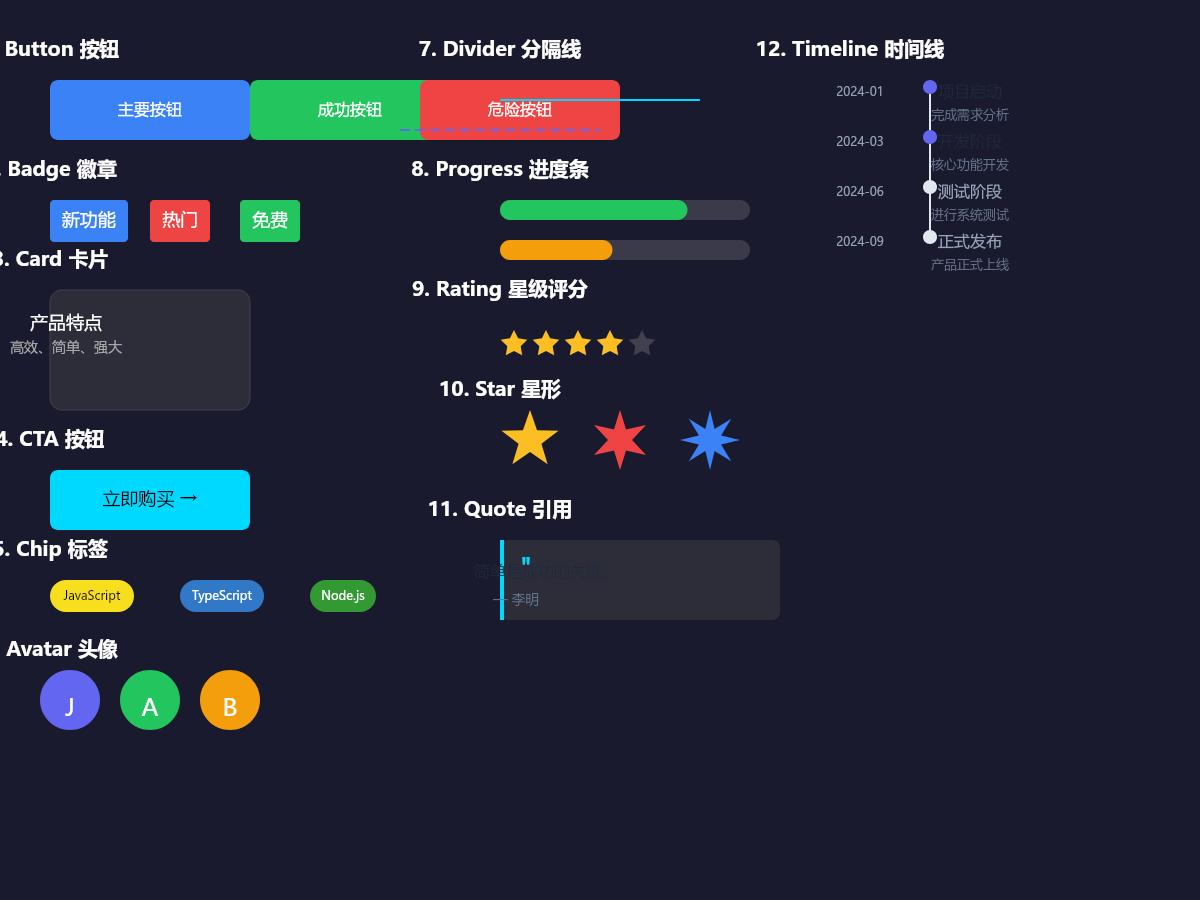
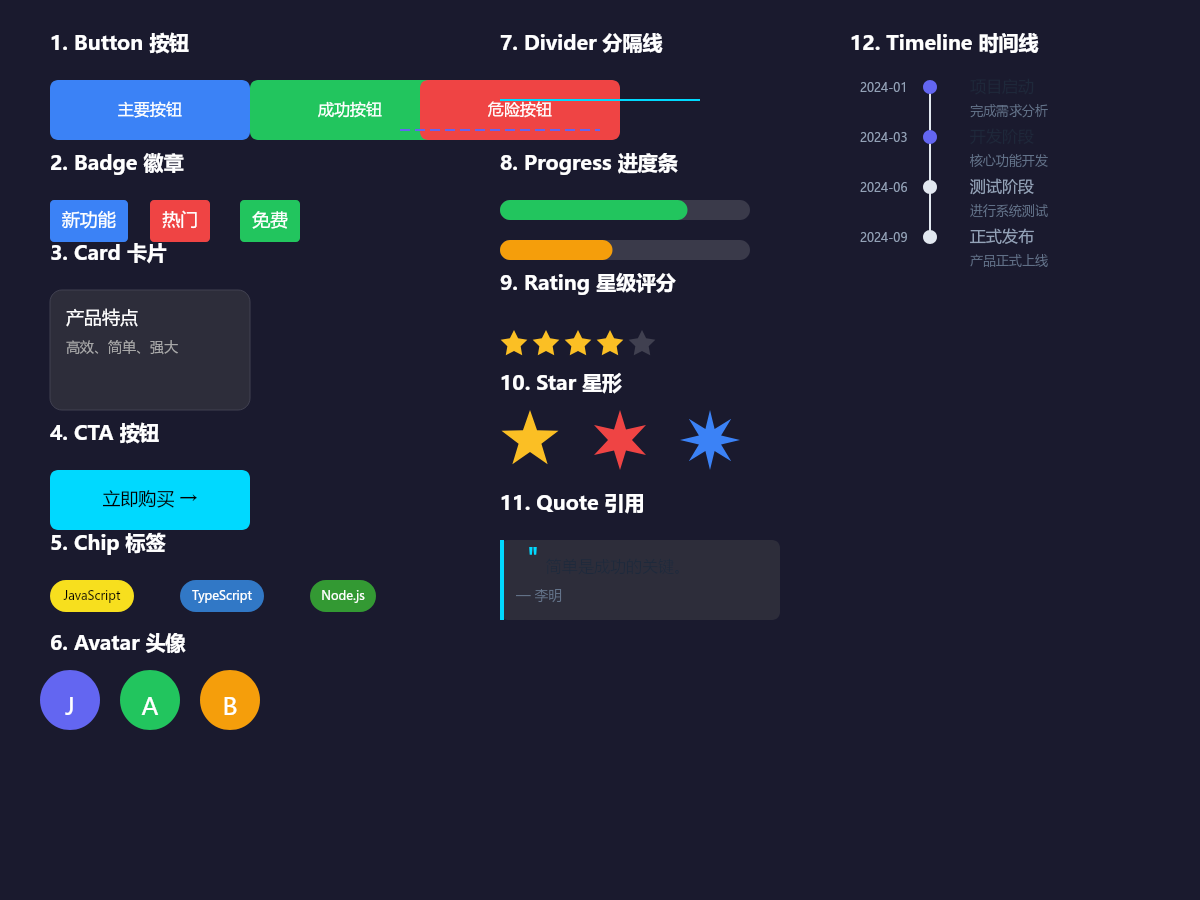
sdffsd

diff --git a/poster-plugin-v2/src/elements/TextElement.js b/poster-plugin-v2/src/elements/TextElement.js
@@ -44,8 +44,14 @@ class TextElement extends BaseElement {
     // 解析字体大小
     const fontSize = this._resolvePercent(this.fontSize, context.height)
 
-    // 设置位置
-    this._paperItem.position = new paper.Point(x, y)
+    // 根据对齐方式设置位置
+    // point是文本基线的起始点（left对齐时），position是中心点
+    if (this.textAlign === 'center') {
+      this._paperItem.position = new paper.Point(x, y)
+    } else {
+      this._paperItem.point = new paper.Point(x, y)
+    }
+
     this._paperItem.fontSize = fontSize
 
     // 更新字体回退链

diff --git a/poster-plugin-v2/src/components/Avatar.js b/poster-plugin-v2/src/components/Avatar.js
@@ -65,10 +65,11 @@ class Avatar extends Component {
       this._bgElement._paperItem.position = new paper.Point(absX, absY)
     }
 
-    // 首字母
+    // 首字母 - 使用 fontSize/3 偏移实现视觉居中
     if (this._textElement && this._textElement._paperItem) {
+      const fontSize = this.size * 0.4
       this._textElement.x = absX
-      this._textElement.y = absY + this.size * 0.15
+      this._textElement.y = absY + fontSize / 3
       this._textElement.render(paper, context)
     }
   }
